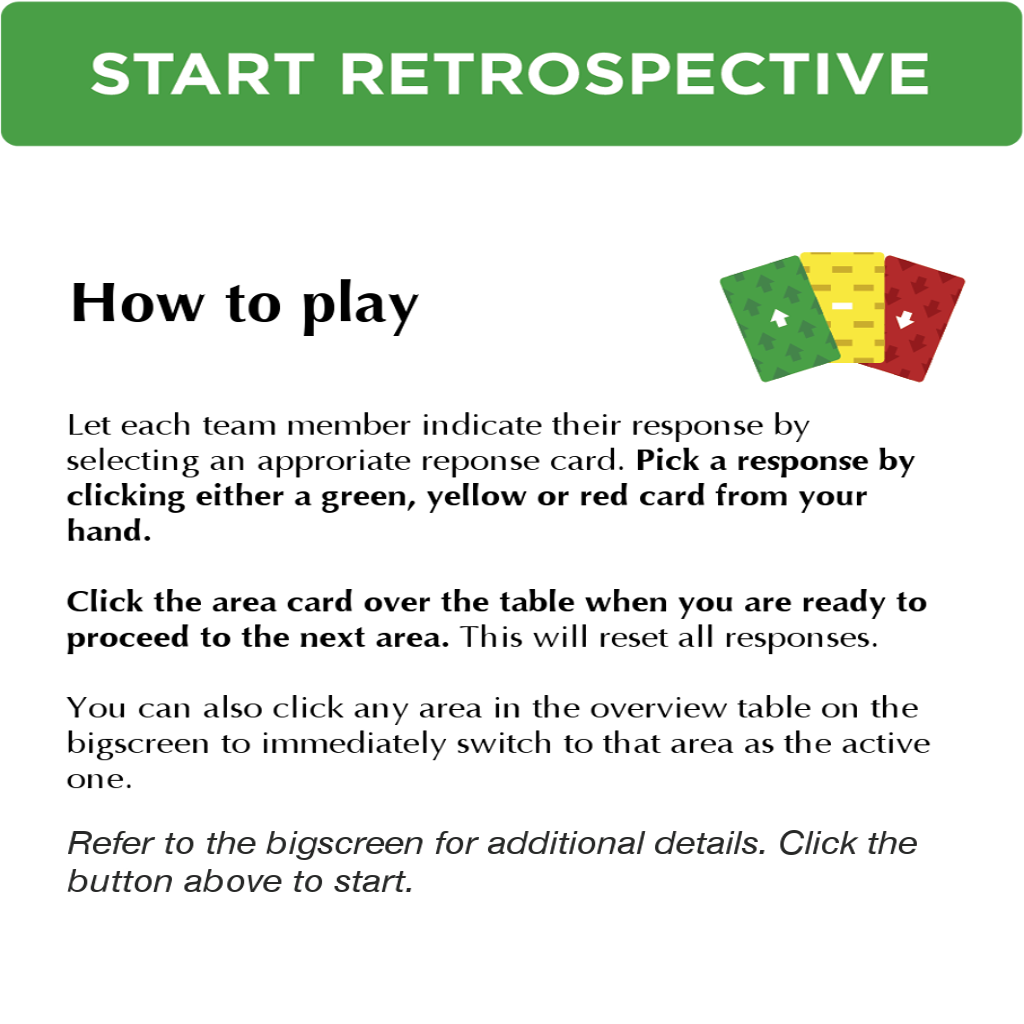
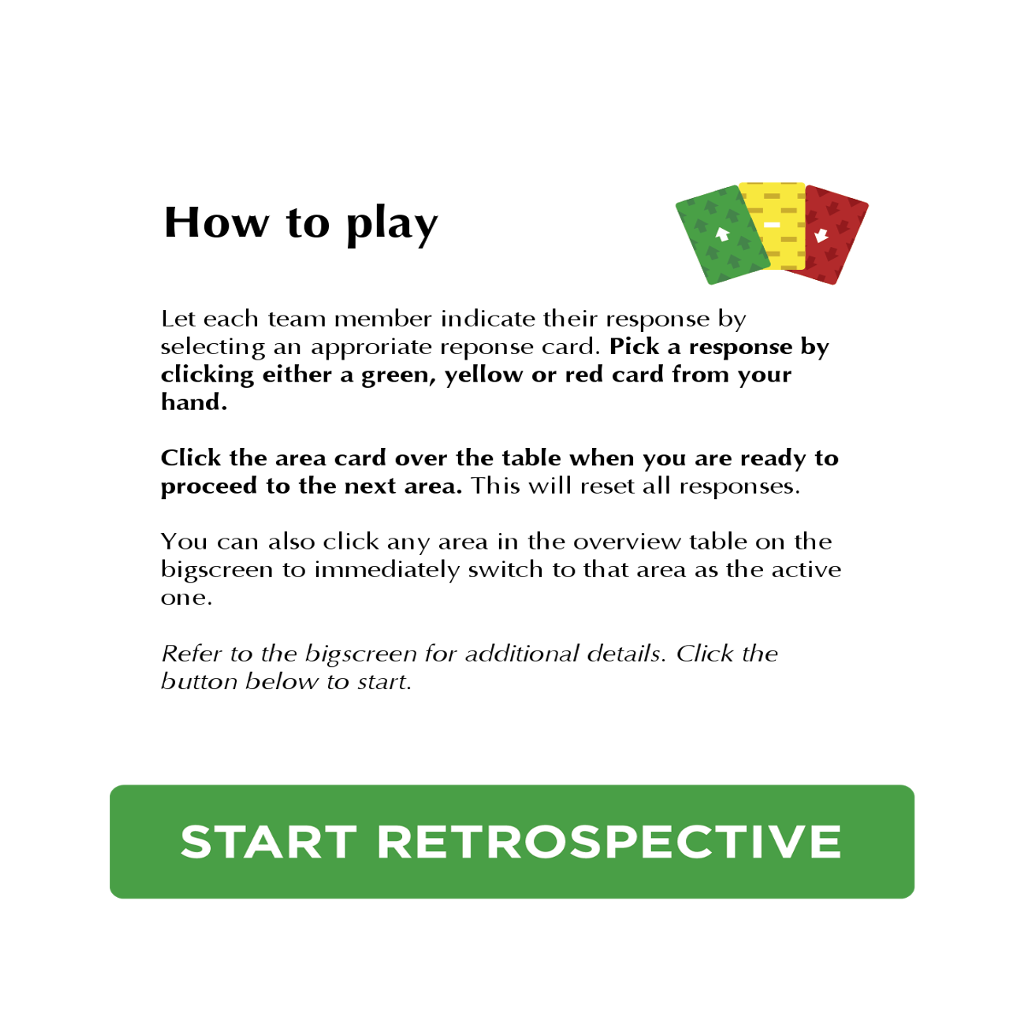
Adjusted intro overlay to be bigger with big transparent edges due some Altspace weirdness where the entire overlay wasn't clickable.

diff --git a/src/js/components/InstructionCard.js b/src/js/components/InstructionCard.js
@@ -7,9 +7,9 @@ import ResponseCard from './ResponseCard'
 
 export default class InstructionCard extends Component {
   render () {
-    let geometry = { primitive: 'plane', width: 1.888, height: 2.132 }
+    let geometry = { primitive: 'plane', width: 2.48, height: 2.8 }
     let material = {src: '#intro-overlay', side: 'double', transparent: 'true'}
-    let position = '0 2 0'
+    let position = '0 2.05 0'
 
     return (
       <Entity>
